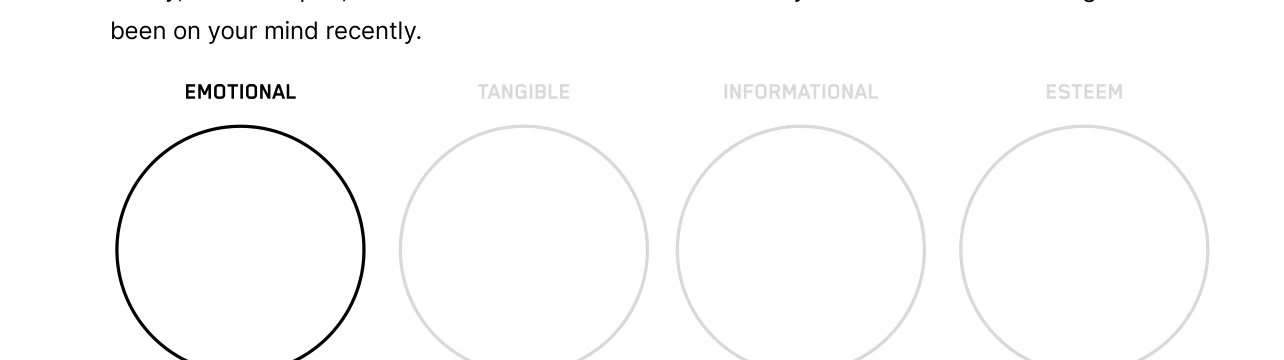
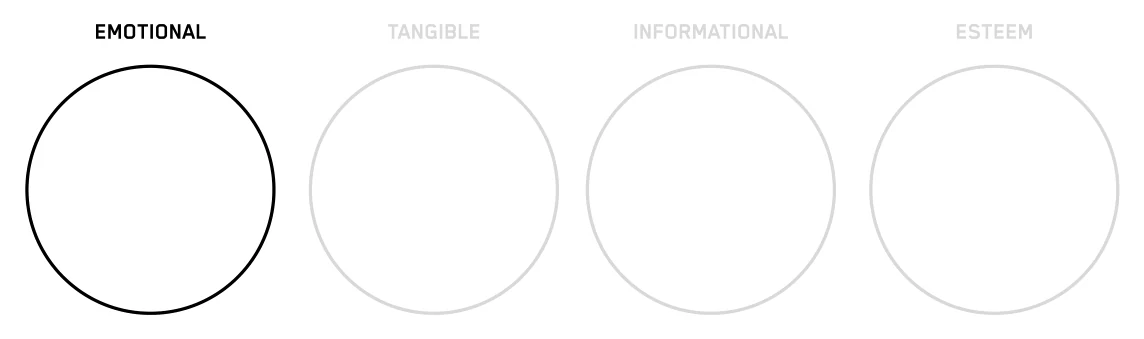
Crop the support check-ins to their circles, and size them alike
The four entries of Solidarity Squad share one diagram and none of them
matched. Three were cropped by a box running the full page width from 96
to 200, which starts inside the instruction above the circles and stops
short of their bottoms, so the picture carried a cut-off line of type and
a row of circles with their feet missing.

Measured to the ink instead. Two sets of numbers, because two of these
pages set their instruction over two lines and that pushes the diagram
eight points down.

They were also three different sizes. Only entry 60 carried a visualScale,
and entry 57 had no override at all, so the one page that looked right was
the one nobody had touched.

diff --git a/src/content/journal-visuals.ts b/src/content/journal-visuals.ts
@@ -45,11 +45,11 @@ const visuals: Record<number, Visual> = {
   53: { src: '/journal/visuals/e053.webp', width: 693, height: 622 },
   54: { src: '/journal/visuals/e054.webp', width: 1157, height: 1230 },
   55: { src: '/journal/visuals/e055.webp', width: 806, height: 273 },
-  57: { src: '/journal/visuals/e057.webp', width: 1284, height: 360 },
-  58: { src: '/journal/visuals/e058.webp', width: 1284, height: 360 },
+  57: { src: '/journal/visuals/e057.webp', width: 1144, height: 339 },
+  58: { src: '/journal/visuals/e058.webp', width: 1144, height: 339 },
   59: { src: '/journal/visuals/e059.webp', width: 594, height: 547 },
-  60: { src: '/journal/visuals/e060.webp', width: 1144, height: 340 },
-  61: { src: '/journal/visuals/e061.webp', width: 1284, height: 360 },
+  60: { src: '/journal/visuals/e060.webp', width: 1144, height: 342 },
+  61: { src: '/journal/visuals/e061.webp', width: 1144, height: 342 },
   62: { src: '/journal/visuals/e062.webp', width: 461, height: 542 },
   66: { src: '/journal/visuals/e066.webp', width: 598, height: 361 },
   68: { src: '/journal/visuals/e068.webp', width: 644, height: 402 },

diff --git a/src/content/entry-overrides.ts b/src/content/entry-overrides.ts
@@ -408,7 +408,12 @@ export const entryOverrides: Record<number, EntryOverride> = {
   },
 
   // Week 9
+  // The four support check-ins share one diagram and should be one size. Only
+  // entry 60 carried a scale, so the other three rendered a third smaller than
+  // their twin for no reason a reader could see.
+  57: { visualScale: 0.66 },
   58: {
+    visualScale: 0.66,
     exercise: {
       intro: [
         'Think of a recent task that has been difficult to complete. Consider who or what could provide resources or support to assist you.',
@@ -433,6 +438,7 @@ export const entryOverrides: Record<number, EntryOverride> = {
     },
   },
   61: {
+    visualScale: 0.66,
     exercise: {
       intro: ['Ask a trusted friend or mentor for honest, constructive feedback on a current goal or project.'],
       fields: [

diff --git a/scripts/crop-visuals.py b/scripts/crop-visuals.py
@@ -31,10 +31,19 @@ CLIPS = {
     # rather than typed. Named by hand because entry 105 closes a week and the
     # automatic pass skips those, and on this page the artwork is the page.
     105: (115, 185, 310, 425),
-    # Only the four support headings, not the instruction above them.
-    58: (0, 96, 420, 200),
-    # Only the four circles, not the question printed beside them.
-    61: (0, 96, 420, 200),
+    # The four kinds of support, one picked out on each entry of the chapter.
+    #
+    # Measured to the ink. The old box was the full page width from 96 to 200,
+    # which started inside the instruction above the circles and stopped short
+    # of their bottoms, so the crop carried a cut-off line of type and a row of
+    # circles with their feet missing.
+    #
+    # Two sets of numbers because two of these pages set their instruction over
+    # two lines, which pushes the diagram eight points down the page.
+    57: (30, 116, 395, 213),
+    58: (30, 116, 395, 213),
+    60: (30, 107, 395, 205),
+    61: (30, 107, 395, 205),
     # The self-talk triangle alone. The full page width left a third of the
     # frame empty, and the eight point pad below reached far enough to catch
     # the line above and the rating heading below, so both showed as slivers.
@@ -48,8 +57,6 @@ CLIPS = {
     # points, so anything wider brings half a sentence with it.
     32: (30, 101, 284, 343),
     33: (136, 101, 374, 343),
-    # The four kinds of support, one shaded on each entry of the chapter.
-    57: (0, 96, 420, 200),
     # The stairway to optimism, which sits beside the heading on each of the
     # four steps rather than above the exercise.
     # Measured to the ink rather than guessed around it. The old box started at
